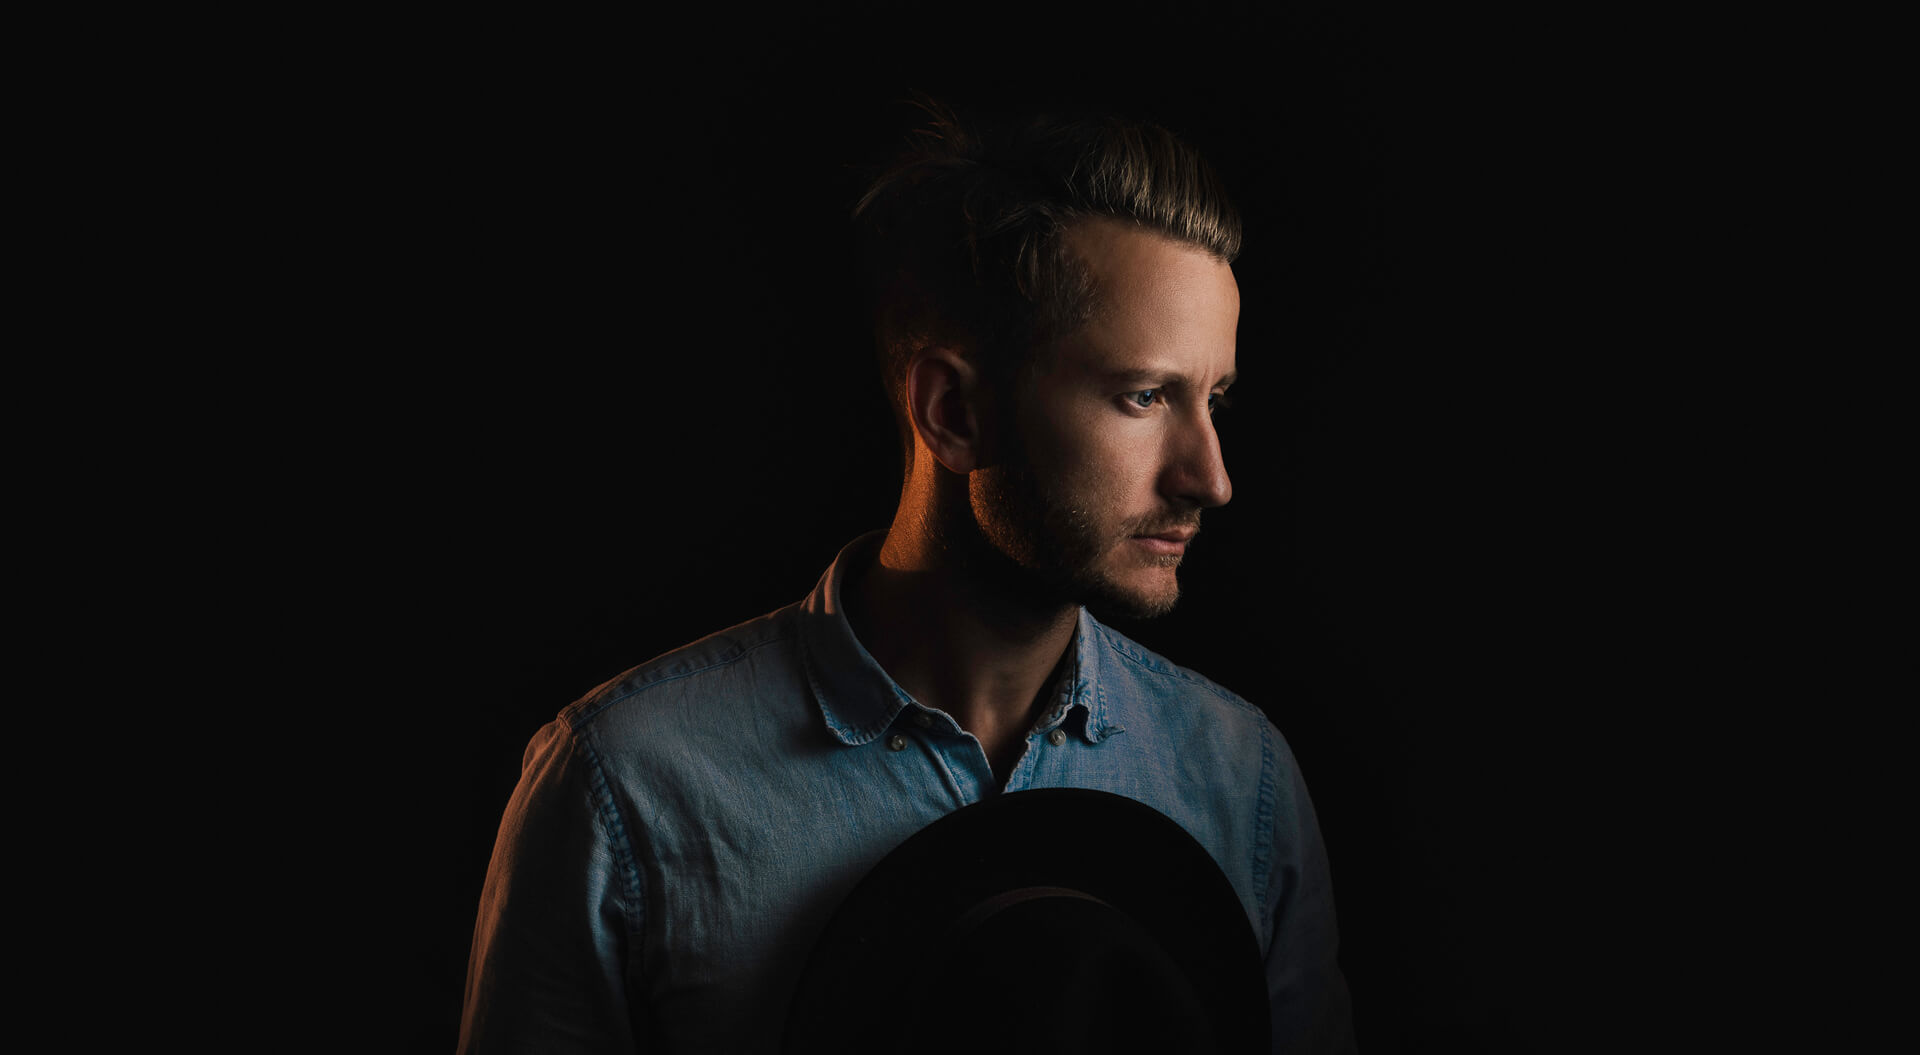
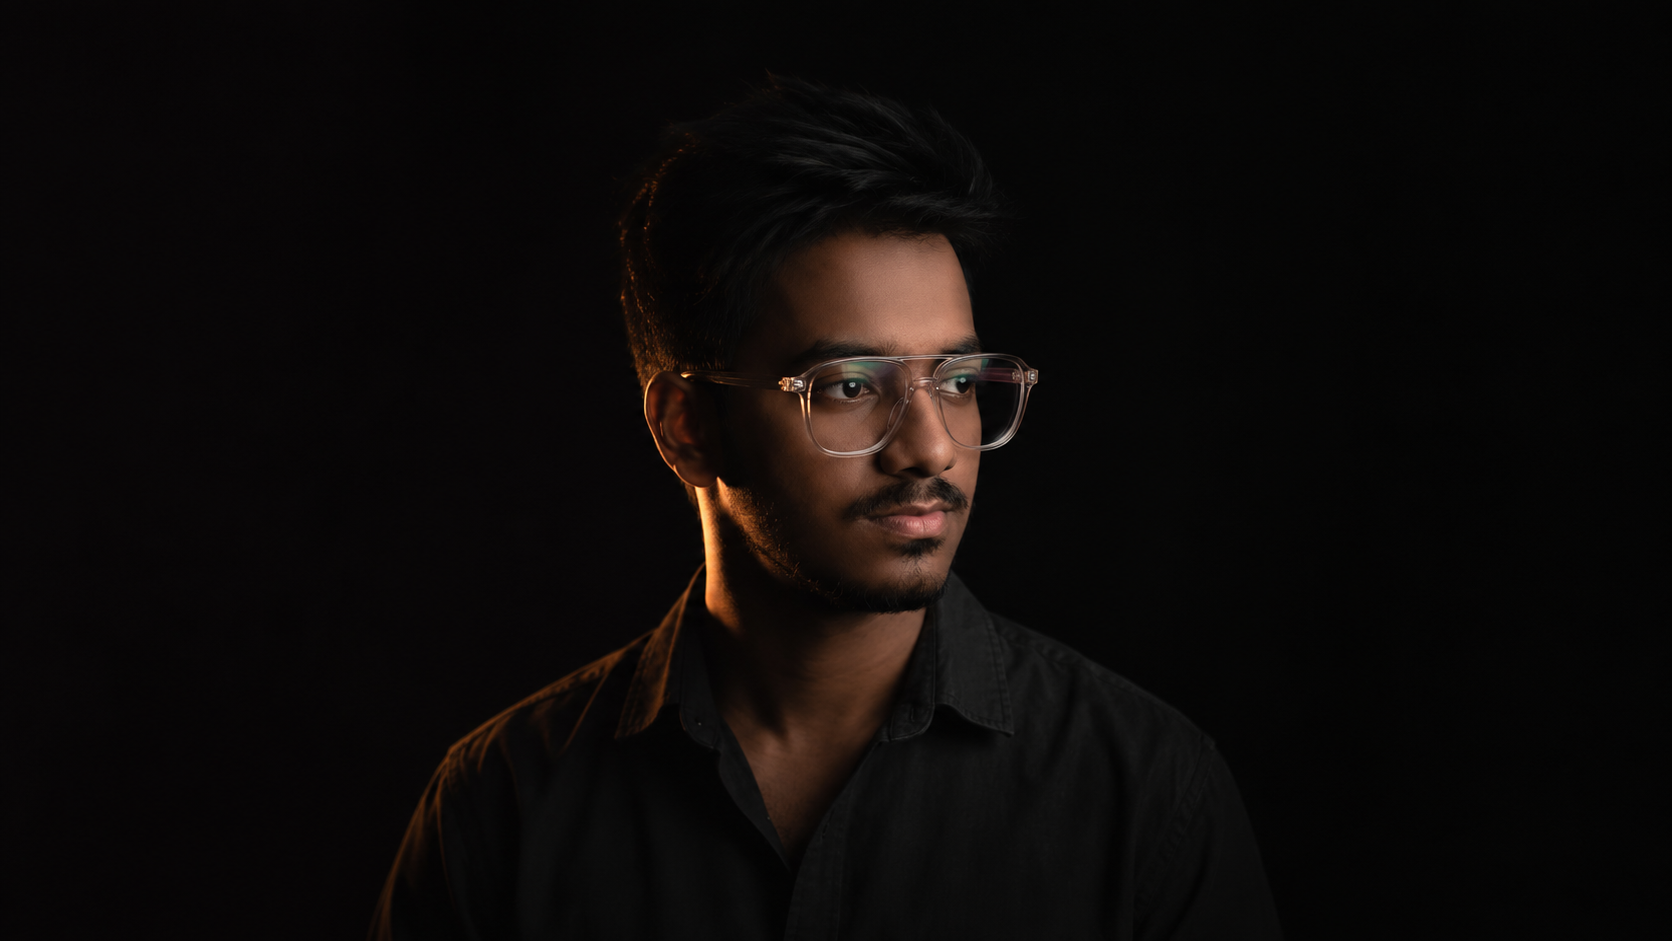
update content - hero, about, education, skills, projects, achievements, contact

Changed region(s): [[0.2177, 0.1541, 0.6842, 1.0]]

diff --git a/index.html b/index.html
@@ -57,7 +57,7 @@
     <!-- Hero Section -->
     <section id="hero" class="hero section dark-background">
 
-      <img src="assets/img/image.png" alt="" data-aos="fade-in">
+      <img src="assets/img/hero-img.jpg" alt="" data-aos="fade-in">
 
       <div class="container d-flex flex-column align-items-center justify-content-center text-center" data-aos="fade-up" data-aos-delay="100">
         <h2>Sravan Yadav K</h2>
@@ -76,7 +76,7 @@
 
             <div class="row justify-content-between gy-4">
               <div class="col-lg-5">
-                <img src="assets/img/profile-img.png" class="img-fluid" alt="Sravan Yadav K">
+                <img src="assets/img/profile-img.jpg" class="img-fluid" alt="Sravan Yadav K">
               </div>
               <div class="col-lg-7 about-info">
                 <p><strong>Name:</strong> <span>Sravan Yadav K</span></p>
